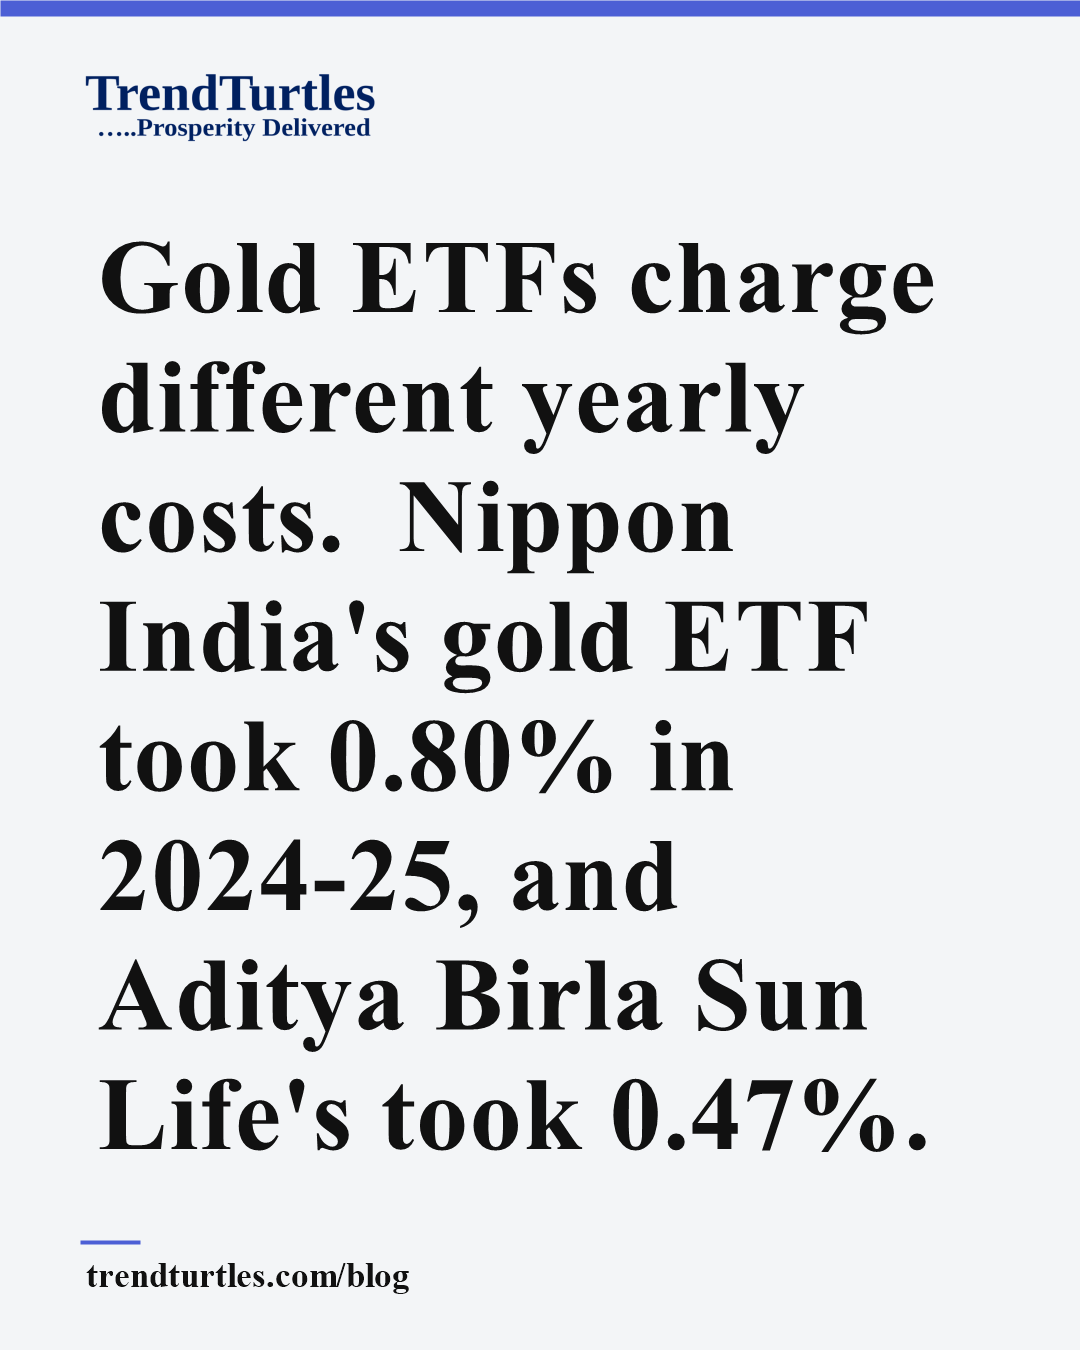
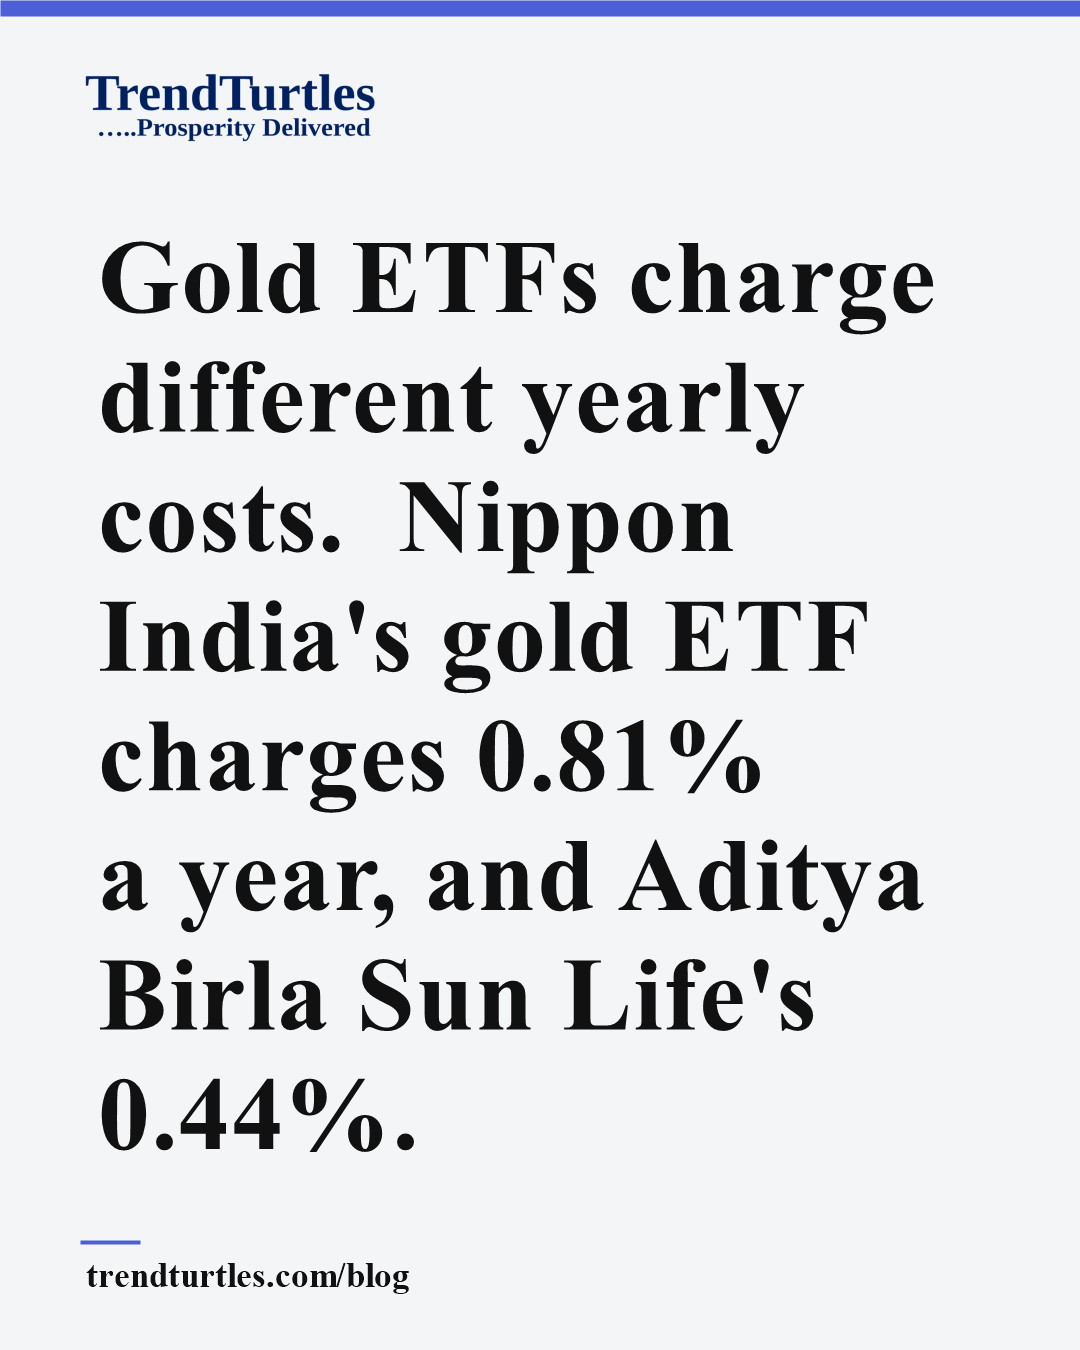
Which gold ETF is best: yearly costs updated to AMFI, 31 October 2026; punch post 1 picture remade

Changed region(s): [[0.0917, 0.5289, 0.8556, 0.8711]]

diff --git a/blog/which-gold-etf-best-india.html b/blog/which-gold-etf-best-india.html
@@ -33,7 +33,7 @@
     "description": "Which gold ETF is best? Gold fell −1.9%, Aditya Birla Sun Life's gold ETF −9.7% and Choice's −3.6% on one day. See all 25 gold ETFs and how to compare.",
     "mainEntityOfPage": "https://trendturtles.com/blog/which-gold-etf-best-india.html",
     "datePublished": "2026-11-08",
-    "dateModified": "2026-11-08",
+    "dateModified": "2026-11-09",
     "inLanguage": "en-IN",
     "image": "https://trendturtles.com/assets/images/which-gold-etf-best-india-share.png",
     "author": {
@@ -211,14 +211,14 @@
     <p>There is one more difference, which you pay every year whether prices move or not. How much does each fund take for its costs?</p>
 
     <h2 id="yearly-cost">5. The Yearly Cost</h2>
-    <p>Every fund takes a small share of its money, a little each day, to pay its costs. This is called the expense ratio. In 2024-25, Aditya Birla Sun Life's gold ETF took <a href="https://mutualfund.adityabirlacapital.com/-/media/bsl/files/resources/forms/applicationforms/kim---aditya-birla-sun-life-gold-etf-120826.pdf" target="_blank" rel="noopener noreferrer">0.47%</a> a year, and Nippon India's took <a href="https://mf.nipponindiaim.com/InvestorServices/ApplicationFormsETF/KIM-cum-application-form-NipponIndia-ETF-Gold-BeES.pdf" target="_blank" rel="noopener noreferrer">0.80%</a>. Choice estimates <a href="https://www.sebi.gov.in/sebi_data/attachdocs/oct-2025/1759900362317.pdf" target="_blank" rel="noopener noreferrer">up to 1%</a> a year, plus some extra costs that SEBI's rules allow. Its current cost is on <a href="https://choicemf.com/" target="_blank" rel="noopener noreferrer">the fund's website</a>.</p>
-    <p>Of the two that publish a yearly cost, Aditya Birla Sun Life's is lower, but on 21 January it had the biggest extra of the three. Which gold ETF is best depends on what you check, and when you buy. How do you compare them before you buy?</p>
+    <p>Every fund takes a small share of its money, a little each day, to pay its costs. This is called the expense ratio. On 31 October 2026, Nippon India's gold ETF took <a href="https://www.amfiindia.com/ter-of-mf-schemes" target="_blank" rel="noopener noreferrer">0.81% a year</a>, Choice's 0.51% and Aditya Birla Sun Life's 0.44%. Each includes GST, a tax.</p>
+    <p>Aditya Birla Sun Life's ETF costs the least, but on 21 January its buyers paid the biggest extra. Which gold ETF is best depends on what you check, and when you buy. How do you compare them before you buy?</p>
 
     <h2 id="what-to-do">6. How to Compare Gold ETFs Before You Buy</h2>
     <ol>
         <li><strong>Check the extra.</strong> During the day, look at the iNAV, an estimate of the NAV. If the price on your app is far above it, you pay extra. Our <a href="etf-price-vs-nav-india.html#what-to-do">ETF article</a> shows where to find the iNAV.</li>
         <li><strong>Check how much it trades.</strong> On your app or the NSE website, look at how much of the ETF was bought and sold that day.</li>
-        <li><strong>Check the yearly cost.</strong> Find the expense ratio in the fund's documents or on its website.</li>
+        <li><strong>Check the yearly cost.</strong> Find the expense ratio on the fund's website or <a href="https://www.amfiindia.com/ter-of-mf-schemes" target="_blank" rel="noopener noreferrer">AMFI's cost list</a>.</li>
     </ol>
     <p><strong>If you already hold a gold ETF:</strong> do step 3 for the one you hold, and step 1 before you sell or add more. We do not tell anyone to buy, keep or sell. An adviser registered with SEBI can look at what you own.</p>
     <p><strong>If you are buying your first gold ETF:</strong> do all three steps, and compare at least two funds.</p>
